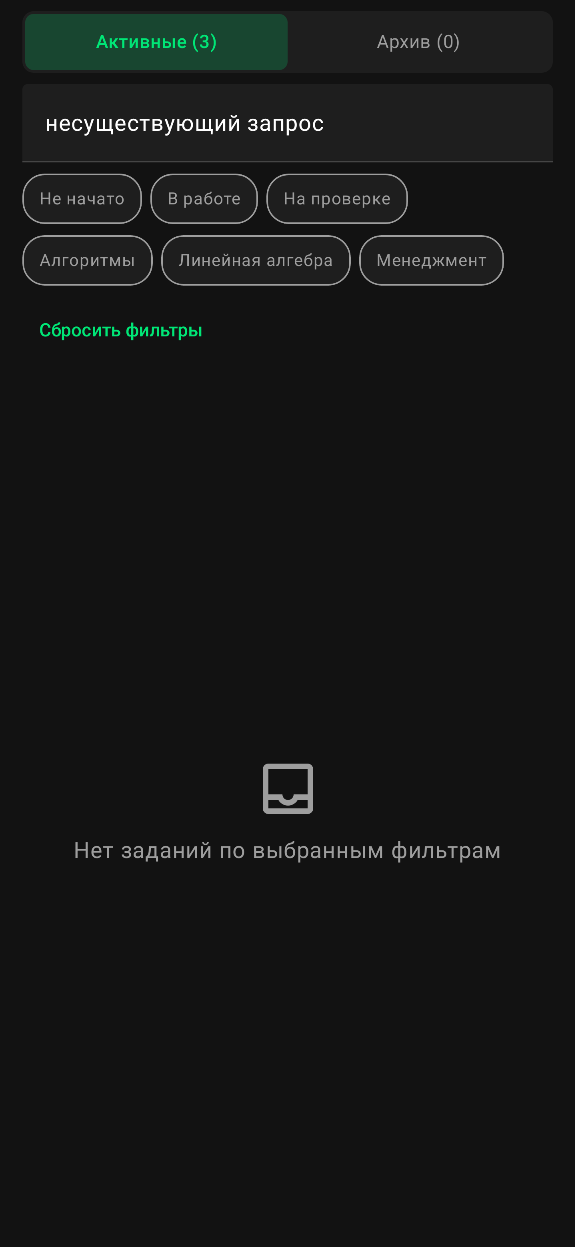
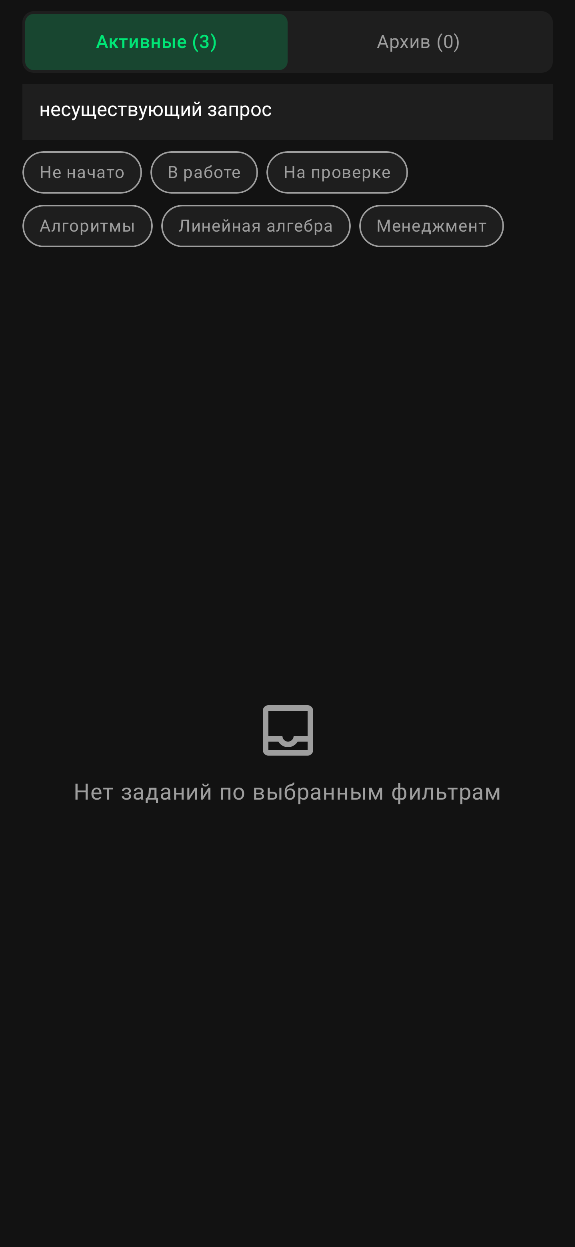
Improve Tasks tab filters: compact UI, selected-first chips
- Reduce filter chip vertical padding (6dp → 3dp)
- Replace Material3 TextField with compact BasicTextField for search
- Remove "Сбросить фильтры" button (deselect by tapping active chip)
- Move selected filter chips to first position with animation
- Scroll chip rows to start on selection change

diff --git a/shared/src/commonMain/kotlin/io/github/kroune/cumobile/presentation/tasks/TasksScreen.kt b/shared/src/commonMain/kotlin/io/github/kroune/cumobile/presentation/tasks/TasksScreen.kt
@@ -11,22 +11,25 @@ import androidx.compose.foundation.layout.Spacer
 import androidx.compose.foundation.layout.fillMaxSize
 import androidx.compose.foundation.layout.fillMaxWidth
 import androidx.compose.foundation.layout.height
+import androidx.compose.foundation.layout.heightIn
 import androidx.compose.foundation.layout.padding
 import androidx.compose.foundation.lazy.LazyColumn
 import androidx.compose.foundation.lazy.LazyRow
 import androidx.compose.foundation.lazy.items
+import androidx.compose.foundation.lazy.rememberLazyListState
 import androidx.compose.foundation.shape.RoundedCornerShape
+import androidx.compose.foundation.text.BasicTextField
 import androidx.compose.material3.ExperimentalMaterial3Api
 import androidx.compose.material3.Text
-import androidx.compose.material3.TextButton
-import androidx.compose.material3.TextField
-import androidx.compose.material3.TextFieldDefaults
 import androidx.compose.material3.pulltorefresh.PullToRefreshBox
 import androidx.compose.runtime.Composable
+import androidx.compose.runtime.LaunchedEffect
 import androidx.compose.runtime.getValue
 import androidx.compose.ui.Modifier
 import androidx.compose.ui.draw.clip
+import androidx.compose.ui.graphics.SolidColor
 import androidx.compose.ui.tooling.preview.Preview
+import androidx.compose.ui.text.TextStyle
 import androidx.compose.ui.unit.dp
 import androidx.compose.ui.unit.sp
 import com.arkivanov.decompose.extensions.compose.subscribeAsState
@@ -176,30 +179,31 @@ private fun FiltersRow(
         modifier = modifier.fillMaxWidth(),
         verticalArrangement = Arrangement.spacedBy(8.dp),
     ) {
-        // Search field
-        TextField(
+        // Search field — compact height
+        BasicTextField(
             value = state.searchQuery,
             onValueChange = { onIntent(TasksComponent.Intent.Search(it)) },
-            placeholder = {
-                Text(
-                    text = "Поиск по названию...",
-                    color = AppTheme.colors.textSecondary,
-                    fontSize = 14.sp,
-                )
-            },
             singleLine = true,
-            colors = TextFieldDefaults.colors(
-                focusedContainerColor = AppTheme.colors.surface,
-                unfocusedContainerColor = AppTheme.colors.surface,
-                focusedTextColor = AppTheme.colors.textPrimary,
-                unfocusedTextColor = AppTheme.colors.textPrimary,
-                cursorColor = AppTheme.colors.accent,
-                focusedIndicatorColor = AppTheme.colors.accent,
-                unfocusedIndicatorColor = AppTheme.colors.textSecondary.copy(
-                    alpha = 0.3f,
-                ),
+            textStyle = TextStyle(
+                color = AppTheme.colors.textPrimary,
+                fontSize = 14.sp,
             ),
-            modifier = Modifier.fillMaxWidth(),
+            cursorBrush = SolidColor(AppTheme.colors.accent),
+            modifier = Modifier
+                .fillMaxWidth()
+                .heightIn(min = 40.dp)
+                .background(AppTheme.colors.surface)
+                .padding(horizontal = 12.dp, vertical = 10.dp),
+            decorationBox = { innerTextField ->
+                if (state.searchQuery.isEmpty()) {
+                    Text(
+                        text = "Поиск по названию...",
+                        color = AppTheme.colors.textSecondary,
+                        fontSize = 14.sp,
+                    )
+                }
+                innerTextField()
+            },
         )
 
         StatusFilterChips(
@@ -214,12 +218,10 @@ private fun FiltersRow(
             courseFilter = state.courseFilter,
             onIntent = onIntent,
         )
-
-        ResetFiltersButton(state = state, onIntent = onIntent)
     }
 }
 
-/** Status filter chips row. */
+/** Status filter chips row — selected chip moves to front. */
 @Composable
 private fun StatusFilterChips(
     allTasks: List<io.github.kroune.cumobile.data.model.StudentTask>,
@@ -229,11 +231,17 @@ private fun StatusFilterChips(
 ) {
     val statuses = availableStatuses(allTasks, segment)
     if (statuses.isEmpty()) return
+    val sorted = selectedFirst(statuses, statusFilter)
+    val listState = rememberLazyListState()
+    LaunchedEffect(statusFilter) {
+        listState.animateScrollToItem(0)
+    }
     LazyRow(
+        state = listState,
         horizontalArrangement = Arrangement.spacedBy(6.dp),
     ) {
         items(
-            items = statuses,
+            items = sorted,
             key = { it },
         ) { status ->
             FilterChip(
@@ -243,12 +251,13 @@ private fun StatusFilterChips(
                     val newFilter = if (statusFilter == status) null else status
                     onIntent(TasksComponent.Intent.FilterByStatus(newFilter))
                 },
+                modifier = Modifier.animateItem(),
             )
         }
     }
 }
 
-/** Course filter chips row. */
+/** Course filter chips row — selected chip moves to front. */
 @Composable
 private fun CourseFilterChips(
     allTasks: List<io.github.kroune.cumobile.data.model.StudentTask>,
@@ -257,11 +266,17 @@ private fun CourseFilterChips(
 ) {
     val courses = availableCourses(allTasks)
     if (courses.isEmpty()) return
+    val sorted = selectedFirst(courses, courseFilter) { it.first }
+    val listState = rememberLazyListState()
+    LaunchedEffect(courseFilter) {
+        listState.animateScrollToItem(0)
+    }
     LazyRow(
+        state = listState,
         horizontalArrangement = Arrangement.spacedBy(6.dp),
     ) {
         items(
-            items = courses,
+            items = sorted,
             key = { it.first },
         ) { (courseId, courseName) ->
             FilterChip(
@@ -271,34 +286,24 @@ private fun CourseFilterChips(
                     val newFilter = if (courseFilter == courseId) null else courseId
                     onIntent(TasksComponent.Intent.FilterByCourse(newFilter))
                 },
+                modifier = Modifier.animateItem(),
             )
         }
     }
 }
 
-/** Reset button shown only when filters are active. */
-@Composable
-private fun ResetFiltersButton(
-    state: TasksComponent.State,
-    onIntent: (TasksComponent.Intent) -> Unit,
-) {
-    val hasFilters = state.statusFilter != null ||
-        state.courseFilter != null ||
-        state.searchQuery.isNotEmpty()
-    if (!hasFilters) return
-    TextButton(
-        onClick = {
-            onIntent(TasksComponent.Intent.FilterByStatus(null))
-            onIntent(TasksComponent.Intent.FilterByCourse(null))
-            onIntent(TasksComponent.Intent.Search(""))
-        },
-    ) {
-        Text(
-            text = "Сбросить фильтры",
-            color = AppTheme.colors.accent,
-            fontSize = 13.sp,
-        )
-    }
+/**
+ * Moves the selected item to the front, keeping relative order of the rest.
+ * For simple lists where the item itself is the key (e.g., status strings).
+ */
+private fun <T> selectedFirst(
+    items: List<T>,
+    selectedKey: String?,
+    keySelector: (T) -> String = { it as String },
+): List<T> {
+    if (selectedKey == null) return items
+    val selected = items.find { keySelector(it) == selectedKey } ?: return items
+    return listOf(selected) + items.filter { keySelector(it) != selectedKey }
 }
 
 /**
@@ -326,7 +331,7 @@ private fun FilterChip(
                     AppTheme.colors.surface
                 },
             ).clickable(onClick = onClick)
-            .padding(horizontal = 12.dp, vertical = 6.dp),
+            .padding(horizontal = 12.dp, vertical = 3.dp),
     ) {
         Text(
             text = label,
